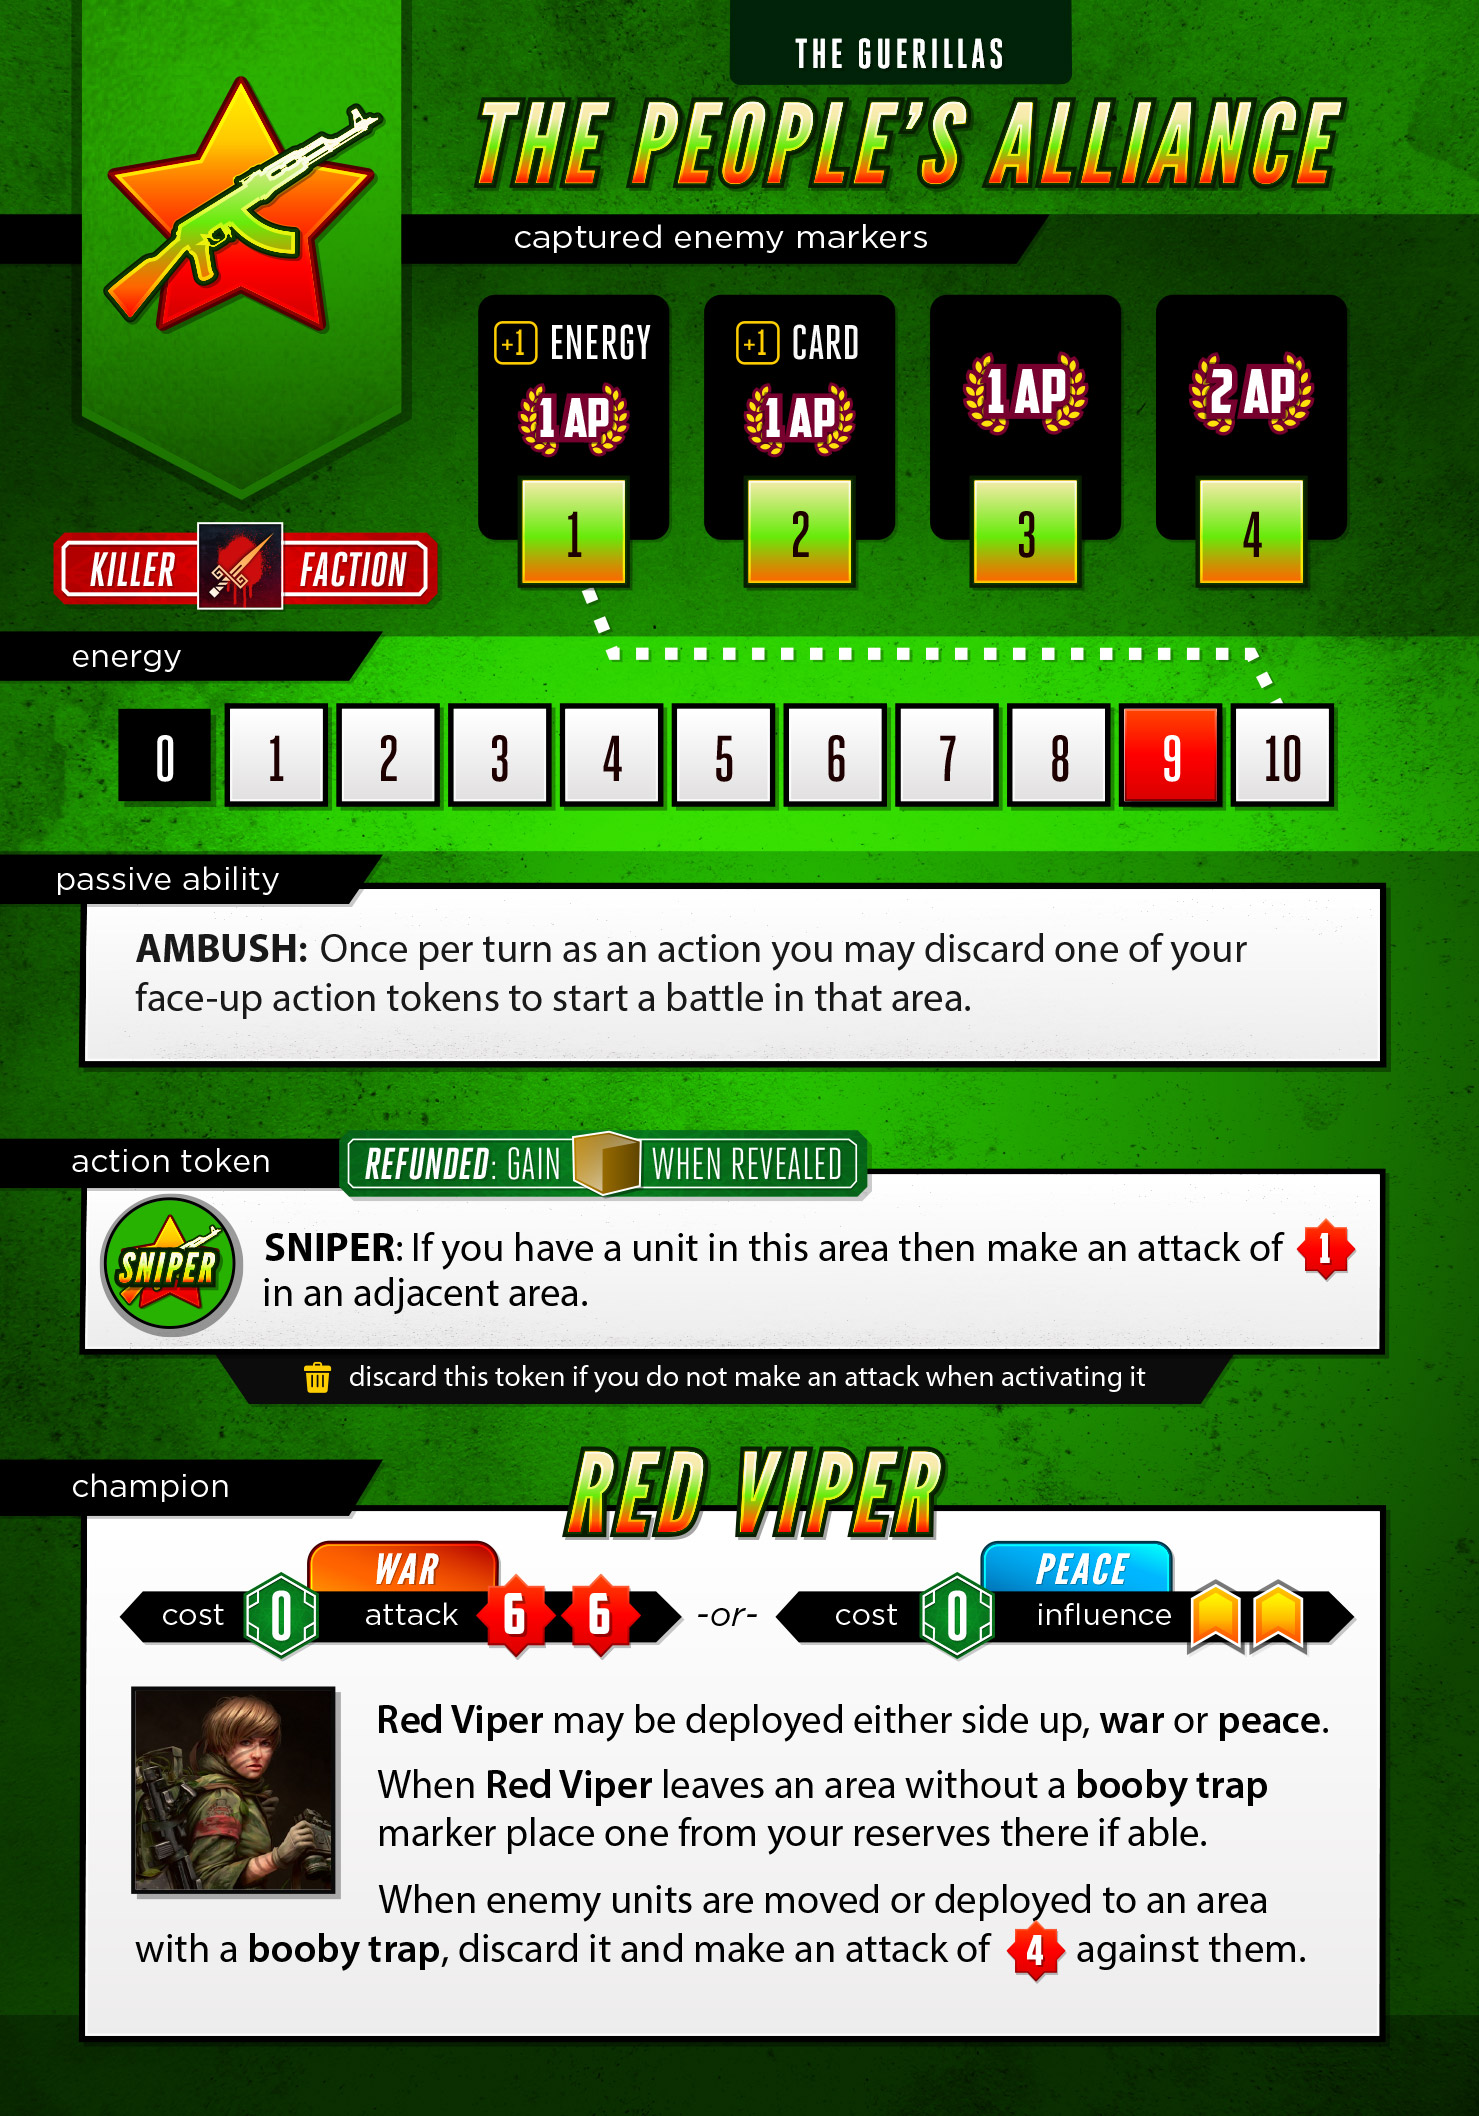
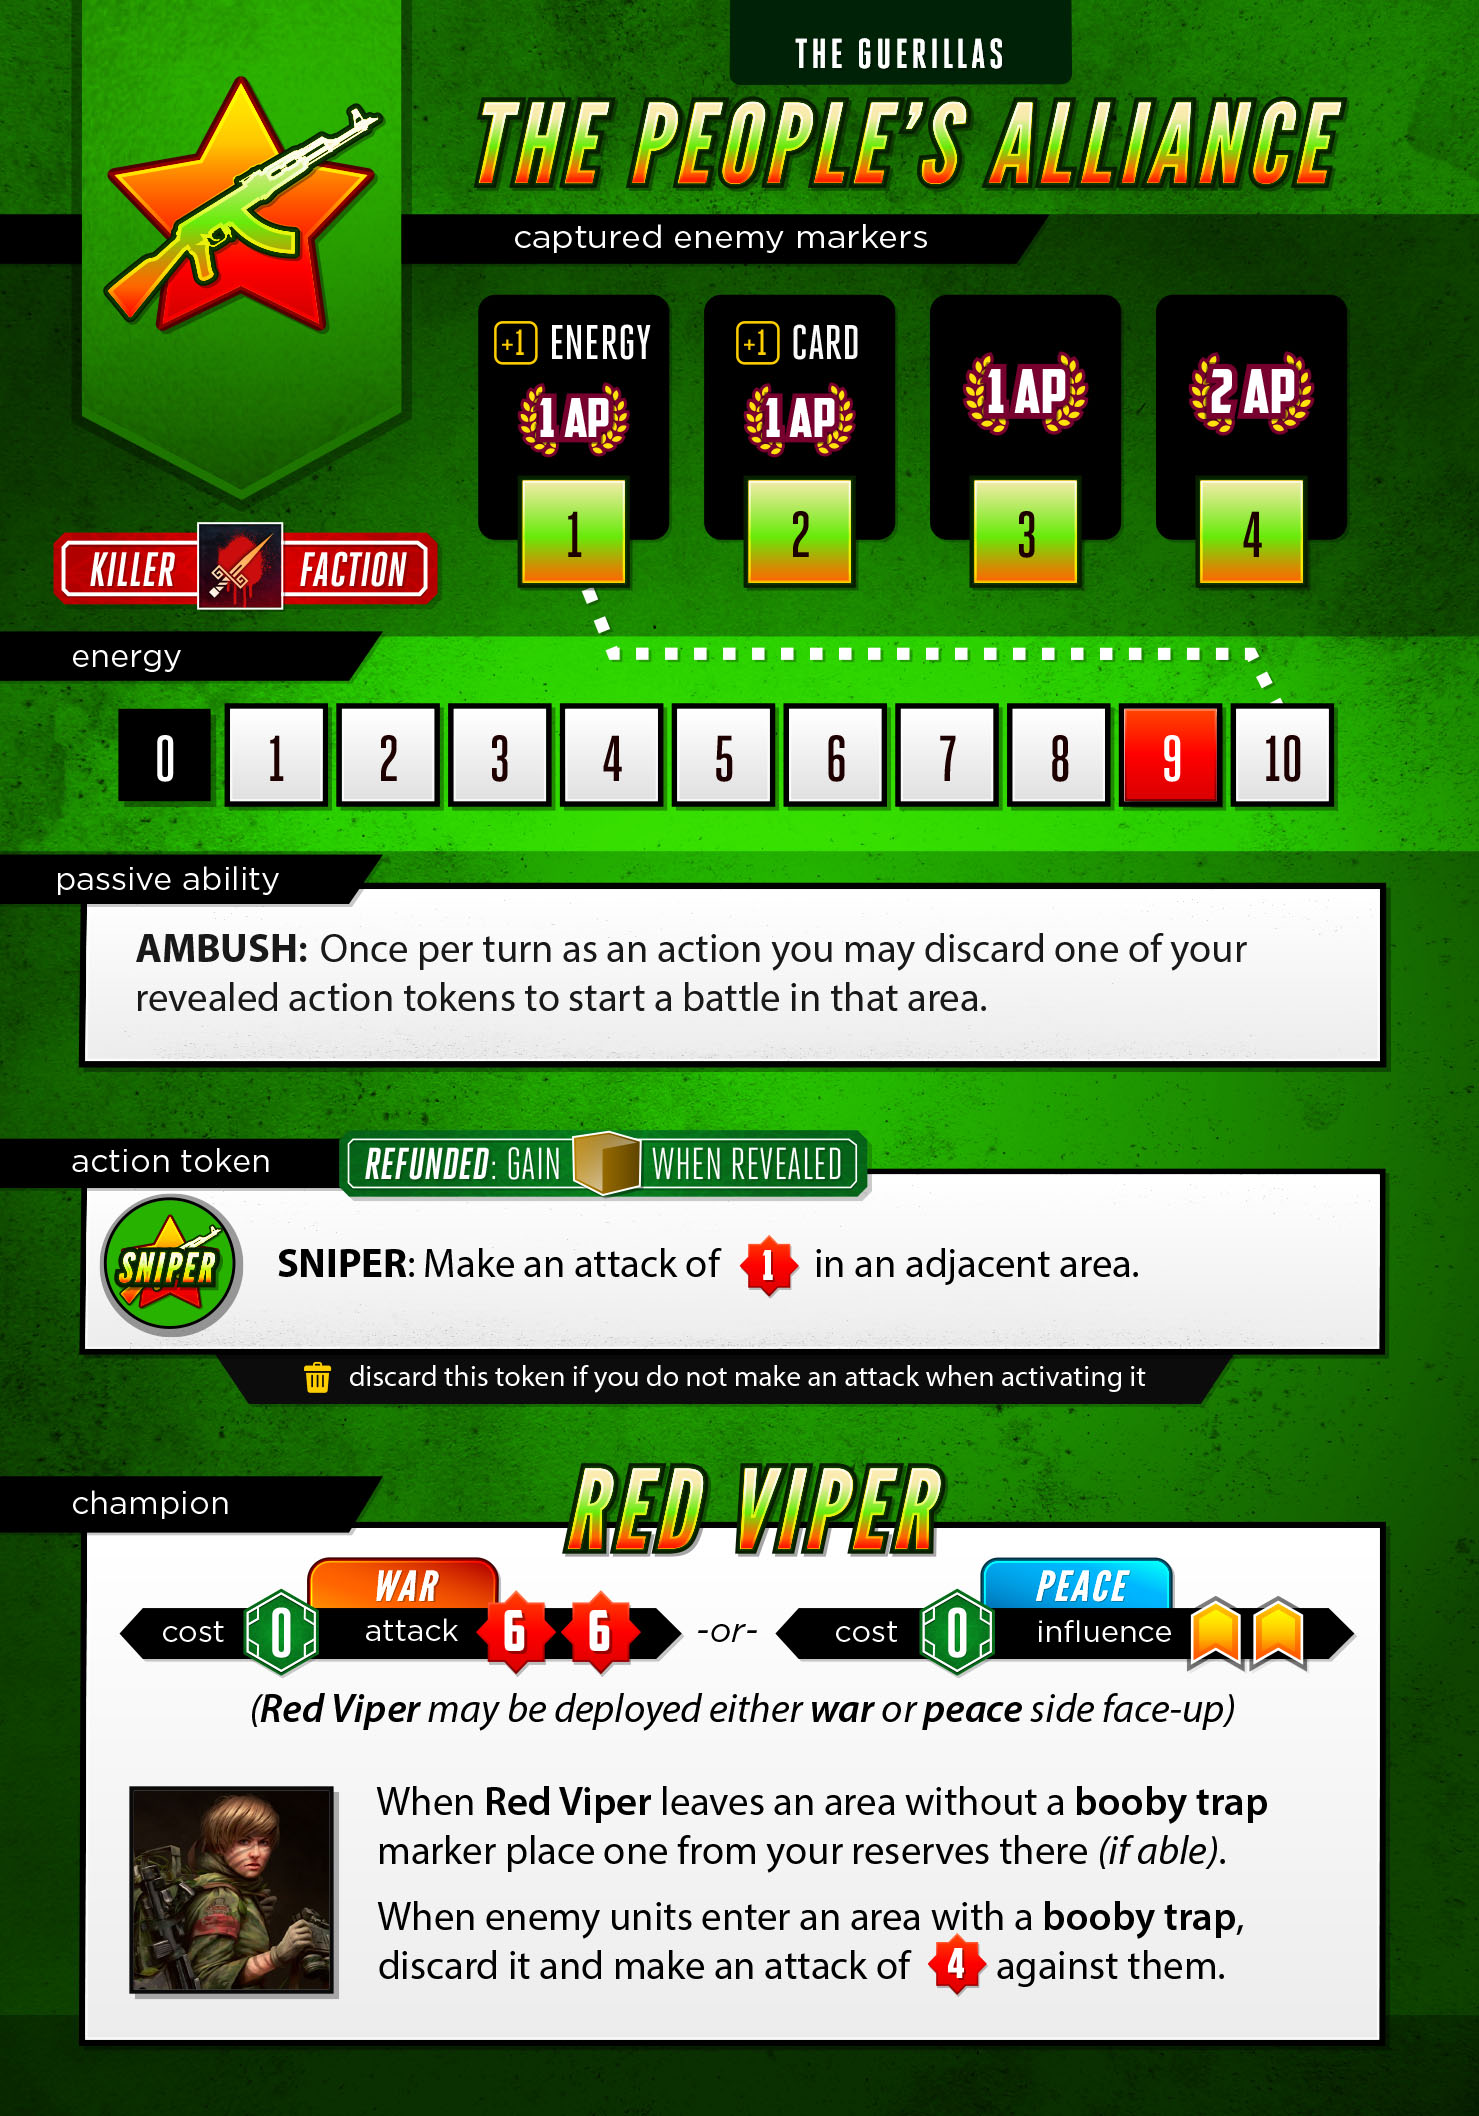
Buff Guerrillas: Remove unit requirement from sniper token

diff --git a/server/classes/factions/Guerrillas.js b/server/classes/factions/Guerrillas.js
@@ -102,11 +102,15 @@ class Guerrillas extends Faction {
      * @returns {boolean}
      */
     canActivateSnipers( token, area ) {
+        return !! this.areasWithEnemyUnits({}, area.name ).length;
+
+        /*
         // do we have a valid target?
         let validTargets = !! this.areasWithEnemyUnits({}, area.name ).length;
         // do we have a unit in this area to be our trigger man
         let hasUnitToShootWith = this.hasUnitsInArea( area );
         return validTargets && hasUnitToShootWith;
+        */
     }
 
 
